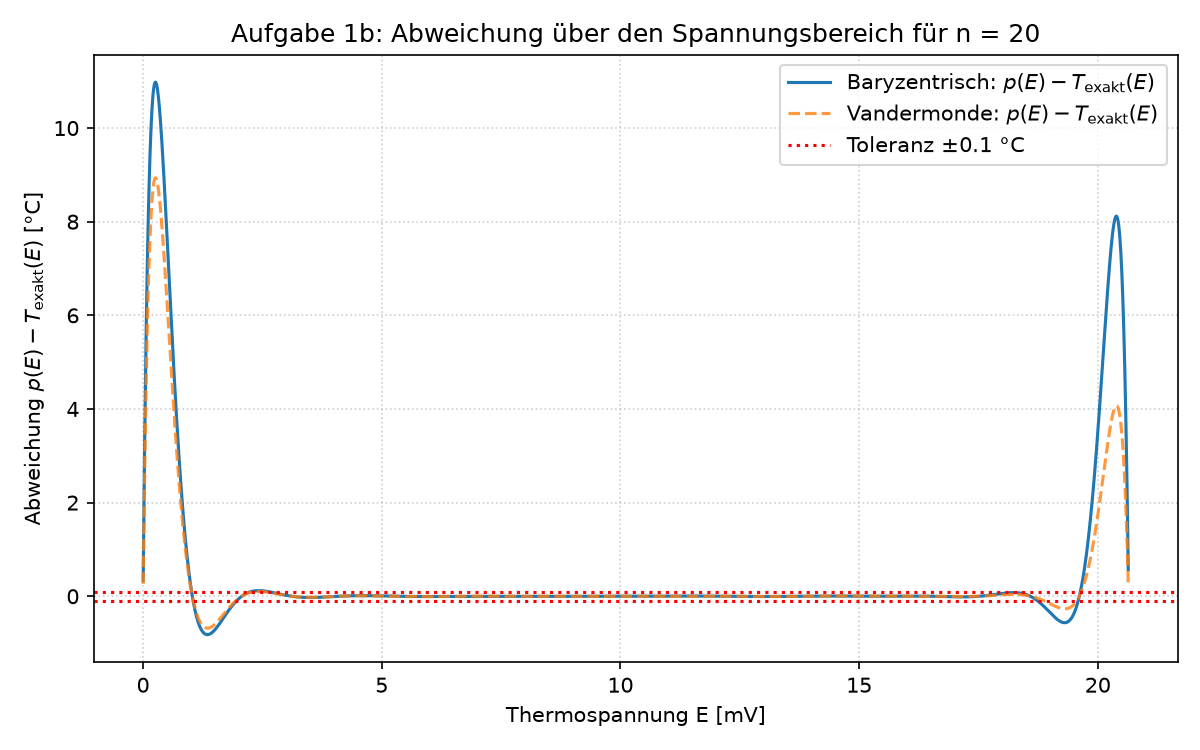
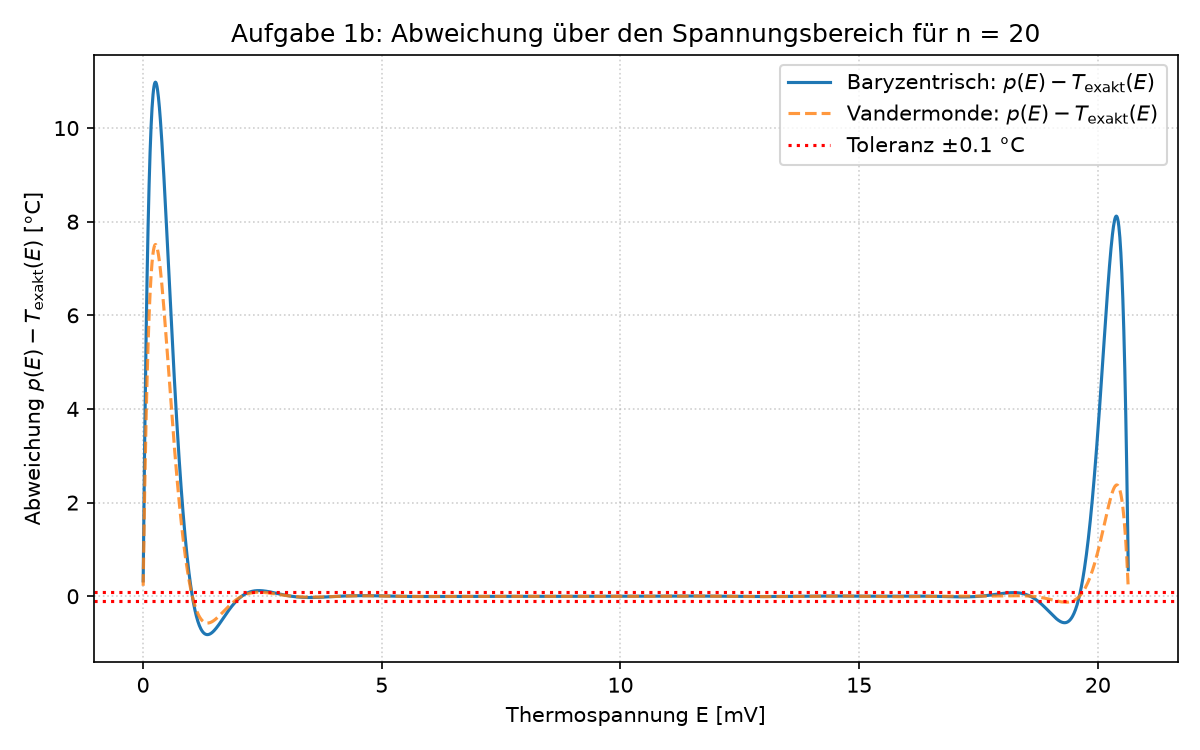
Implement code changes to enhance functionality and improve performance

diff --git a/PP2/aufgabe2.py b/PP2/aufgabe2.py
@@ -1,0 +1,90 @@
+"""Aufgabe 2 - Tschebyscheff-Stützstellen: Vandermonde vs. Baryzentrisch."""
+
+from pathlib import Path
+import matplotlib.pyplot as plt
+import numpy as np
+
+
+def horner(a, x):
+    res = np.zeros_like(x, dtype=float)
+    for c in reversed(a):
+        res = res * x + c
+    return res
+
+
+def baryzentrische_gewichte(x):
+    m = len(x)
+    w = np.ones(m, dtype=float)
+    for j in range(m):
+        for k in range(m):
+            if k != j:
+                w[j] *= x[j] - x[k]
+        w[j] = 1.0 / w[j]
+    return w
+
+
+def baryzentrische_auswertung(x_nodes, y_nodes, w, x_eval):
+    zaehler = np.zeros_like(x_eval, dtype=float)
+    nenner = np.zeros_like(x_eval, dtype=float)
+    for j in range(len(x_nodes)):
+        term = w[j] / (x_eval - x_nodes[j])
+        zaehler += term * y_nodes[j]
+        nenner += term
+    return zaehler / nenner
+
+
+def main():
+    data_dir = Path(__file__).resolve().parent / "Datensätze-20261110"
+    pruefraster = np.loadtxt(data_dir / "pruefraster.csv")
+    stuetzwerte = np.loadtxt(data_dir / "stuetzwerte_tschebyscheff.csv")
+
+    E_pruef = pruefraster[:, 0]
+    T_exakt = pruefraster[:, 1]
+
+    n_werte = list(range(2, 41))
+    emax_vander = []
+    emax_bary = []
+    kappas = []
+
+    for n in n_werte:
+        zeilen = stuetzwerte[stuetzwerte[:, 0] == n]
+        x_nodes = zeilen[:, 2]      # E_mV
+        y_nodes = zeilen[:, 4]      # T_kalibrator_C
+
+        # Vandermonde-Matrix + Horner-Schema
+        V = np.vander(x_nodes, increasing=True)
+        a = np.linalg.solve(V, y_nodes)
+        p_vander = horner(a, E_pruef)
+        emax_vander.append(np.max(np.abs(p_vander - T_exakt)))
+        kappas.append(np.linalg.cond(V, np.inf))
+
+        # Baryzentrische Interpolation
+        w = baryzentrische_gewichte(x_nodes)
+        p_bary = baryzentrische_auswertung(x_nodes, y_nodes, w, E_pruef)
+        emax_bary.append(np.max(np.abs(p_bary - T_exakt)))
+
+    print(f"{'n':>3} | {'e_max Vander [°C]':>17} | {'e_max Bary [°C]':>15} | {'kappa_inf(V)':>12}")
+    print("-" * 56)
+    for i, n in enumerate(n_werte):
+        if n in (2, 5, 8, 9, 10, 15, 20, 22, 24, 29, 32, 40):
+            print(f"{n:3d} | {emax_vander[i]:17.4e} | {emax_bary[i]:15.4e} | {kappas[i]:12.2e}")
+
+    plt.figure(figsize=(8, 5))
+    plt.semilogy(n_werte, emax_vander, "o-", label="Vandermonde + Horner")
+    plt.semilogy(n_werte, emax_bary, "s-", label="Baryzentrisch")
+    plt.axhline(0.1, color="red", linestyle="--", label="Ziel: 0,1 °C")
+    plt.xlabel("Polynomgrad n")
+    plt.ylabel(r"Maximaler Fehler $e_{\max}$ [°C]")
+    plt.title("Aufgabe 2: Fehlervergleich mit Tschebyscheff-Stützstellen")
+    plt.grid(True, which="both", linestyle=":", alpha=0.6)
+    plt.legend()
+    plt.tight_layout()
+
+    fig_dir = Path(__file__).resolve().parent / "figures"
+    fig_dir.mkdir(exist_ok=True)
+    plt.savefig(fig_dir / "a2_fehlervergleich.png", dpi=150)
+    plt.show()
+
+
+if __name__ == "__main__":
+    main()
